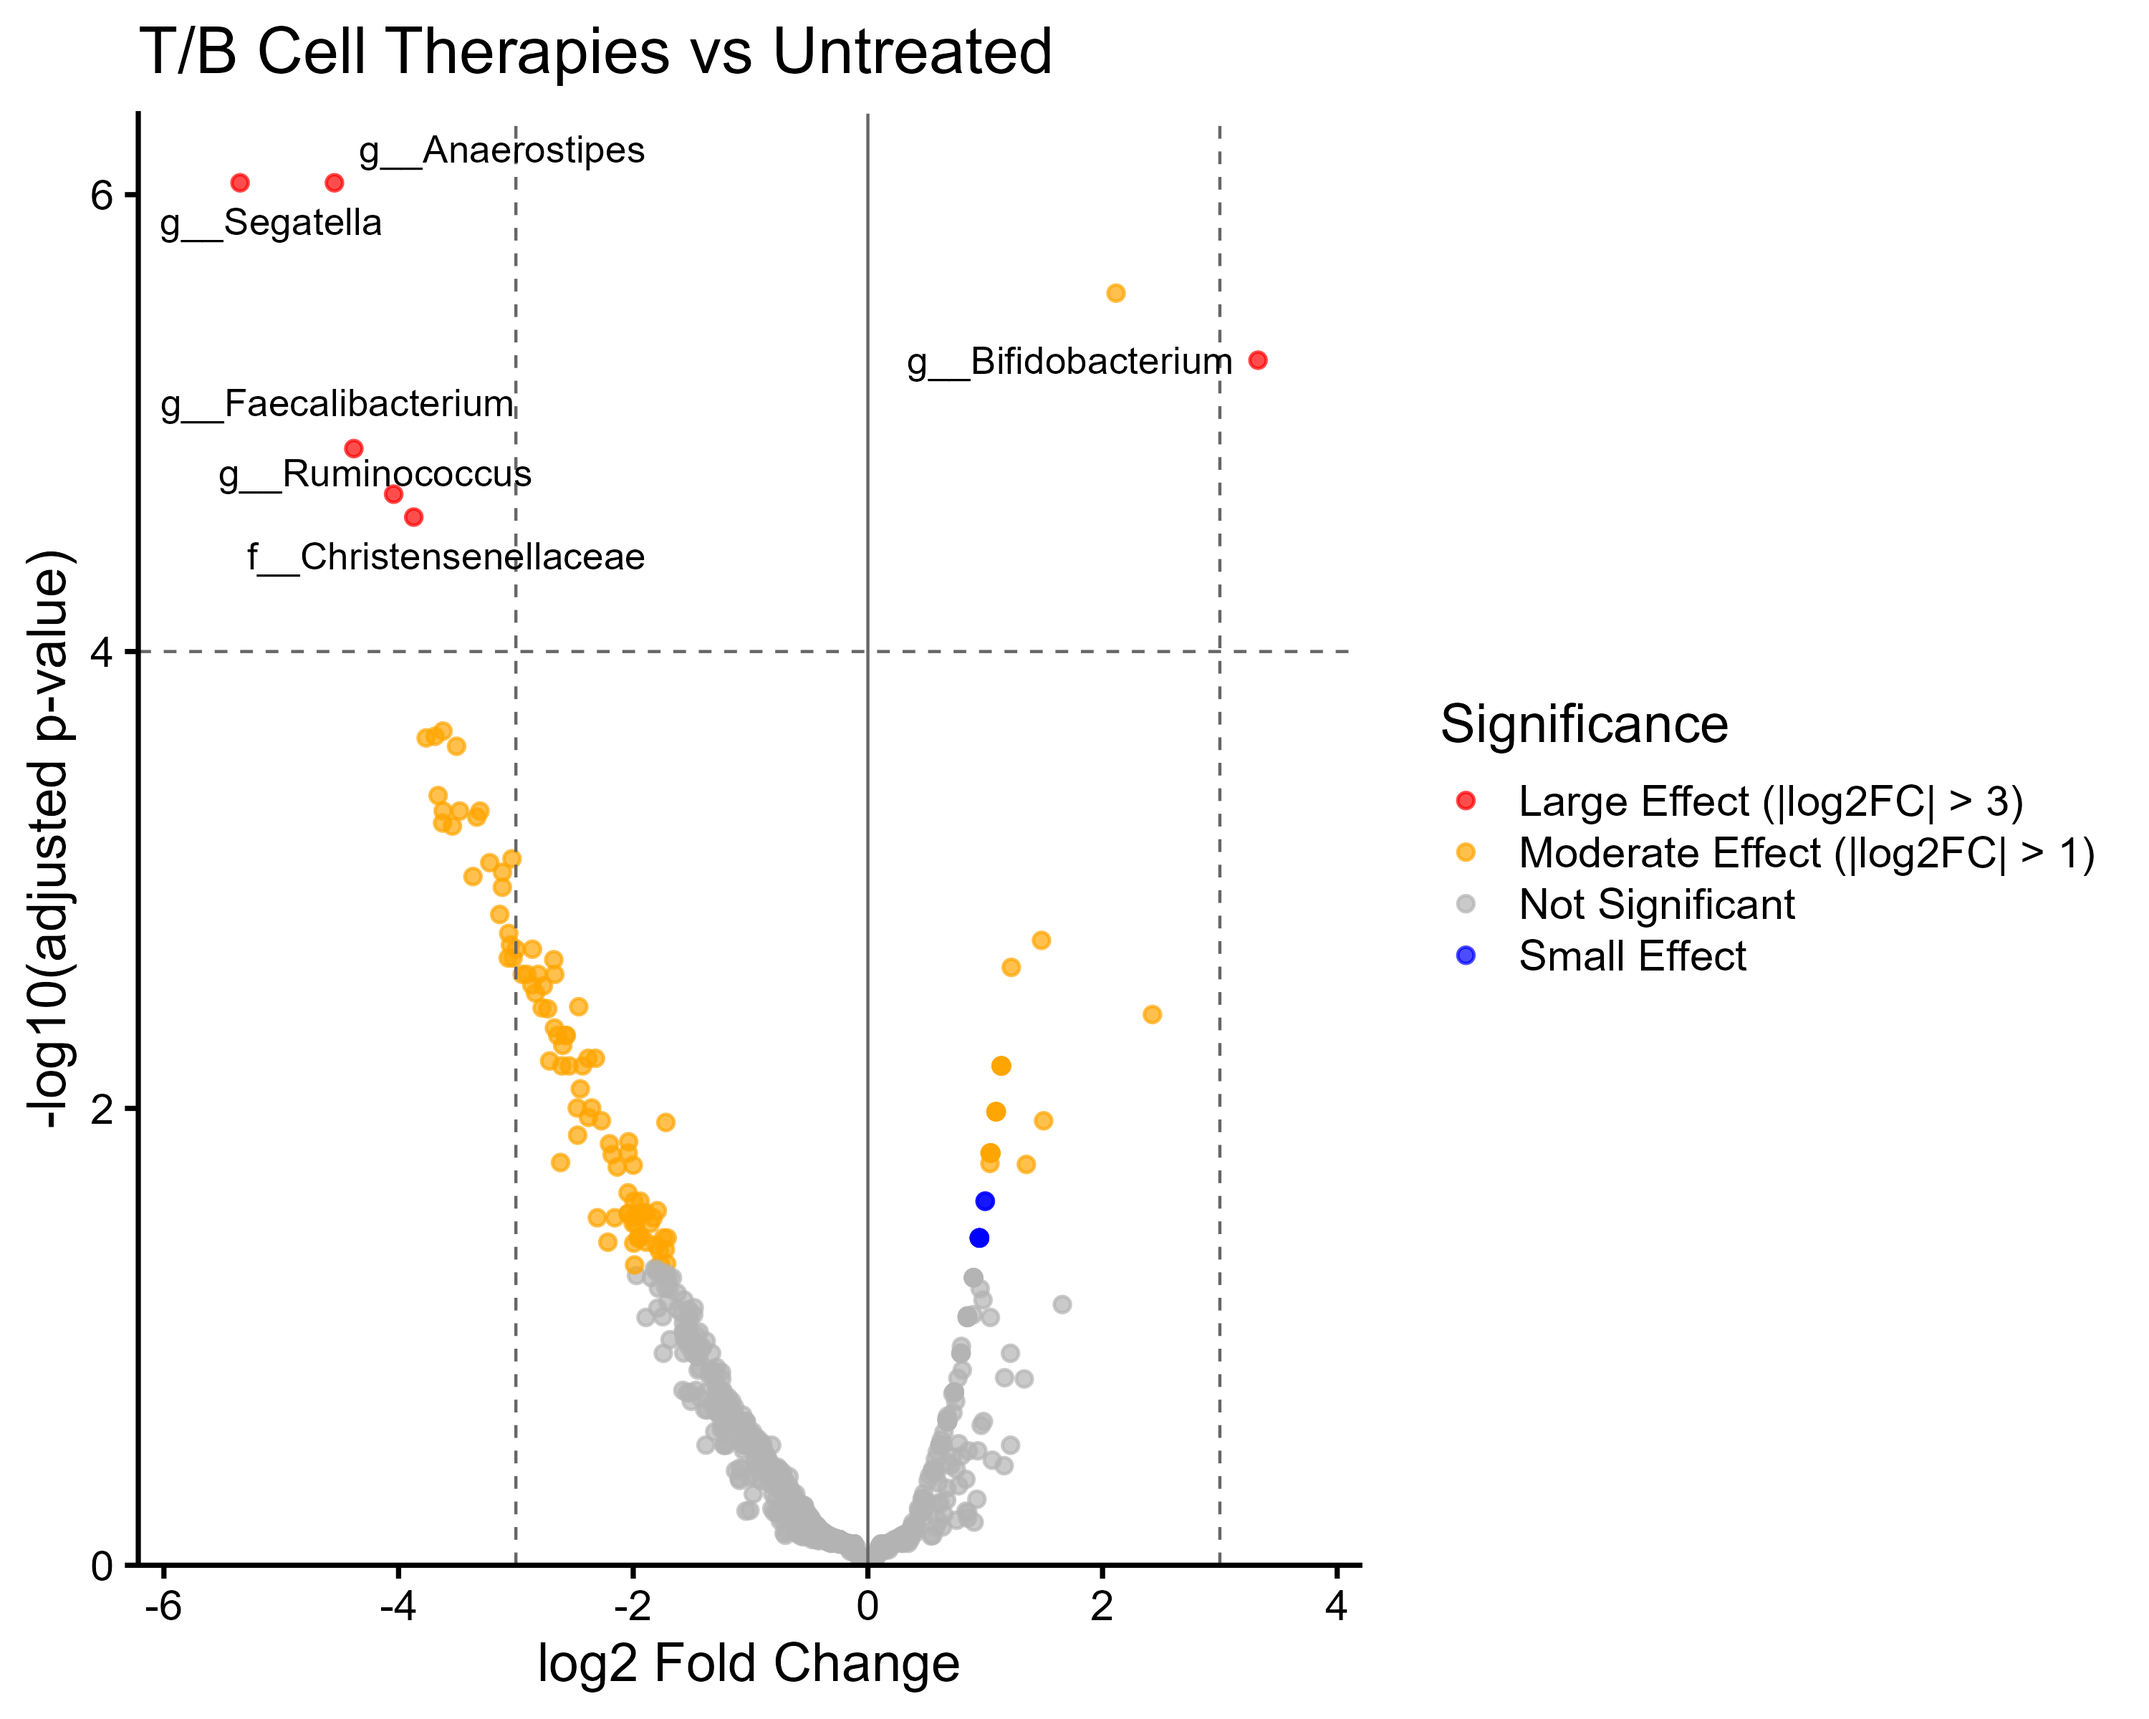
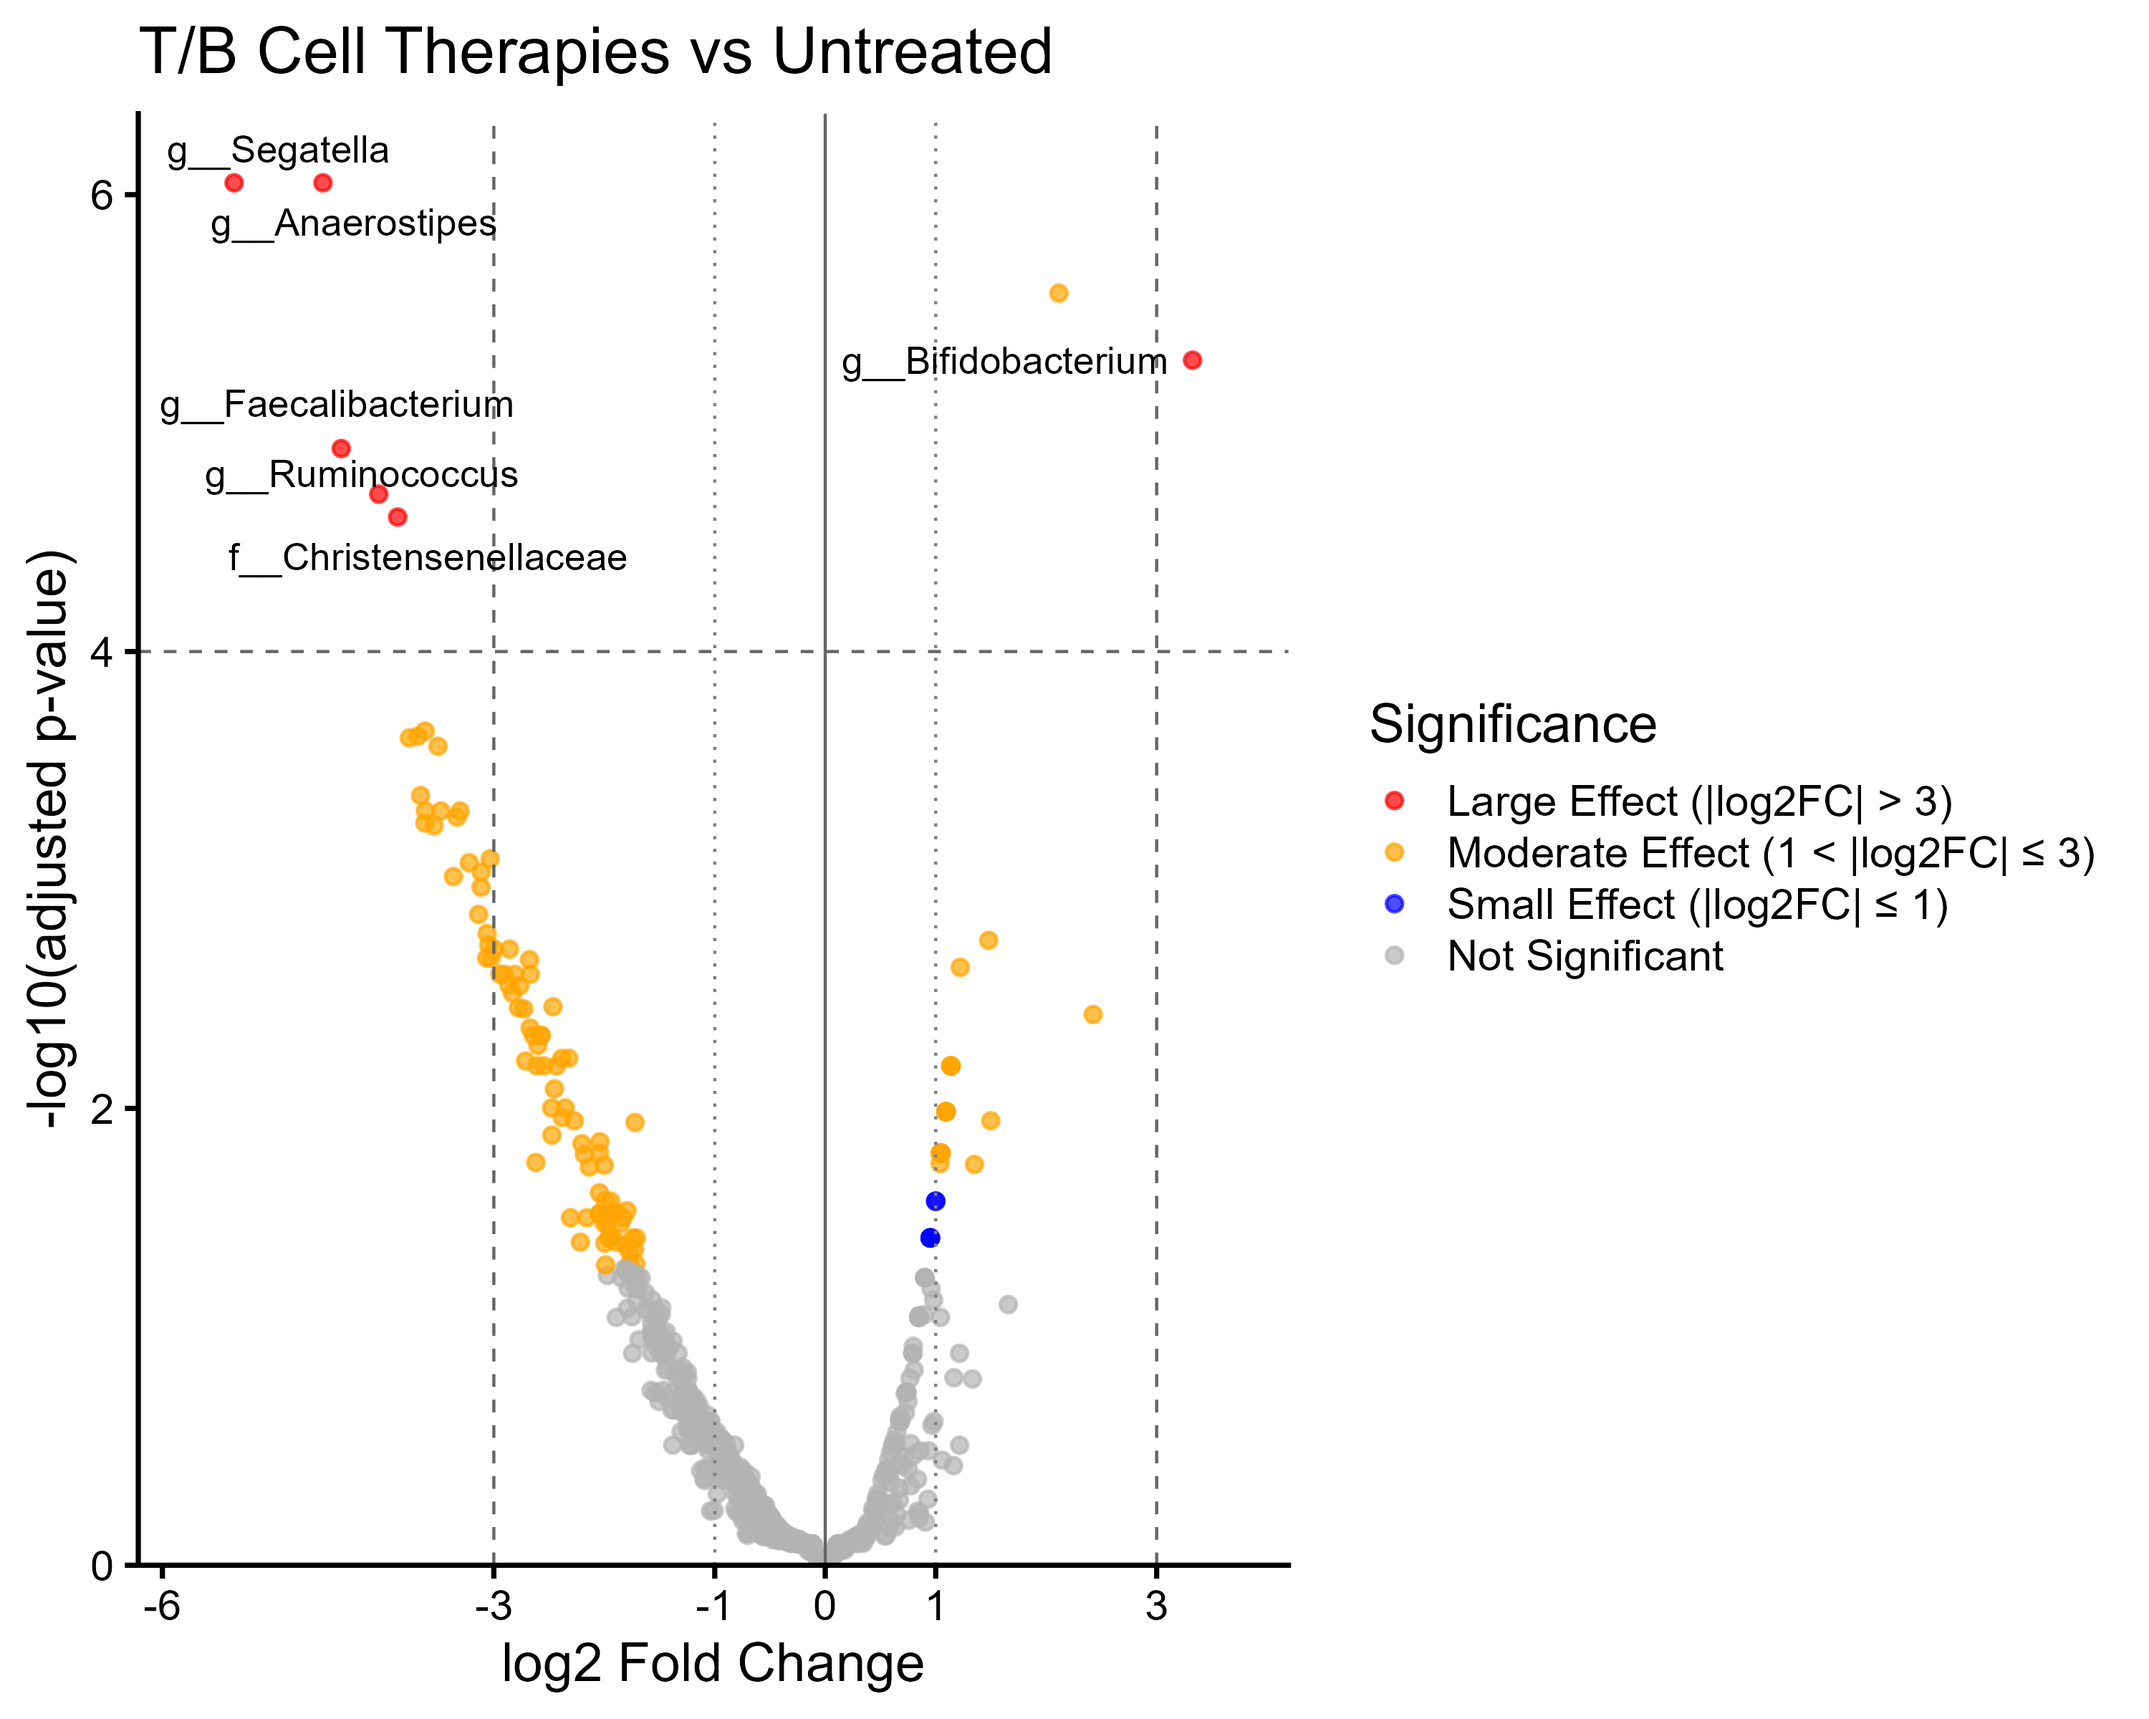
updated deseq plots

diff --git a/LabNotebook/Chap7/Chap7.md b/LabNotebook/Chap7/Chap7.md
@@ -12,14 +12,15 @@ To identify differentially abundant bacterial taxa between treated and untreated
   * Filtered raw phyloseq data to remove RRMS samples and RRMS-associated controls (rarefied data yielded zero significant results)
   * Used gene-wise dispersion estimation (manual approach) due to data variability
   * Performed three pairwise comparisons: Treated vs Untreated PMS, Treated vs Control, Untreated vs Control
+  * Also performed pairwise comparisons with treatments grouped by mechanism: Immunomodulators and T/B cell therapies
  
- * PiCRUST2
-   * Extracted the metadata and grouped treatments into immunomodulators, T/B cell and untreated
-   * Loaded KO table
-   * Filtered for immunomodulators and then T and B cell
-   * ran DAA using LinDA for T and B cell vs untreated and immunomodulators vs untreated
-   * annotated DAA for immunomodulators and T and B cell
-   * plotted results
+* PiCRUST2
+  * Extracted the metadata and grouped treatments into immunomodulators, T/B cell and untreated
+  * Loaded KO table
+  * Filtered for immunomodulators and then T and B cell
+  * ran DAA using LinDA for T and B cell vs untreated and immunomodulators vs untreated
+  * annotated DAA for immunomodulators and T and B cell
+  * plotted results
 
 ## Visualizations:
 ### DESeq2 analysis (volcano plots):
@@ -32,7 +33,7 @@ To identify differentially abundant bacterial taxa between treated and untreated
 
 ![Volcano Plot: Immunomodulators vs Untreated PMS](deseq2_3cutoff_volcano_immuno_vs_untreated.png)
 
-![Volcano Plot: Immunomodulators vs Untreated PMS](deseq2_3cutoff_volcano_TBcell_vs_untreated.png)
+![Volcano Plot: T/B cell therapy vs Untreated PMS](deseq2_3cutoff_volcano_TBcell_vs_untreated.png)
 
 ### PiCRUST2 analysis:
 * Immunomodulators vs Untreated had 7 significant pathways

diff --git a/LabNotebook/Chap3/Chap3.md b/LabNotebook/Chap3/Chap3.md
@@ -13,7 +13,7 @@ To generate the phyloseq object and rarify phyloseq object to a chosen sampling 
 ## Rarecurve:
 Alpha rarefaction plot generated using R. Each line represents a distinct sample with a maximum sequencing depth of 28,263. The sampling depth was set to 6,215 as indicated by the blue dotted line.
 
-![Rarecurve](rarecurve.png)
+![Rarecurve](RAREFACTION_CURVE_FINAL.png)
 
 We selected a rarefaction depth of 6,215, where a plateau was effectively reached, and we could retain 54 samples in both PMS conditions. 
 At this rarefaction depth, 3 PPMS, 1 SPMS, and 17 control samples were discarded. This selected sampling depth retained 3,424,465 (39.75%) features in 551 (96.33%) samples.

diff --git a/LabNotebook/Chap5/Chap5.md b/LabNotebook/Chap5/Chap5.md
@@ -16,6 +16,7 @@ To evaluate whether distinct disease-modifying therapies are significantly assoc
   * A second PCoA plot excluding healthy controls was generated to better visualize differences among PMS treatment types
   * If PERMANOVA was significant (p < 0.05), pairwise comparisons were conducted between each treatment type and untreated PMS, between untreated PMS and healthy controls, and between each treatment type and healthy controls
   * P-values were adjusted using FDR correction, with comparisons considered significant if p_FDR < 0.05
+* All above analysis were also re-ran on the treatments grouped by mechanism: Immunomodulators and T/B cell therapies
 
 ## Visualizations:
 
